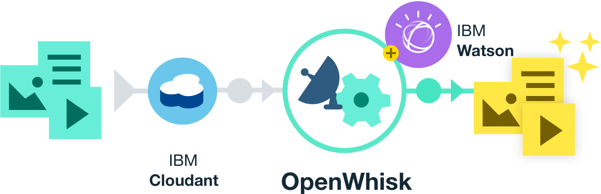
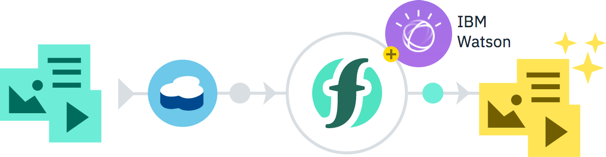
Update to Cloud Functions name and image.

diff --git a/README.md b/README.md
@@ -1,5 +1,5 @@
-# OpenWhisk Building Block - Cognitive Data Processing
-Process cognitive data with Apache OpenWhisk on IBM Bluemix. This tutorial should take about 5 minutes to complete. After this, move on to more complex serverless applications such as those tagged [_openwhisk-hands-on-demo_](https://github.com/search?q=topic%3Aopenwhisk-hands-on-demo+org%3AIBM&type=Repositories).
+# Cognitive data processing with IBM Cloud Functions
+Process cognitive data with IBM Cloud Functions powered by Apache OpenWhisk. This tutorial should take about 5 minutes to complete. After this, move on to more complex serverless applications such as those tagged [_openwhisk-hands-on-demo_](https://github.com/search?q=topic%3Aopenwhisk-hands-on-demo+org%3AIBM&type=Repositories).
 
 ![Sample Architecture](openwhisk-data-processing-cognitive.png)
 
